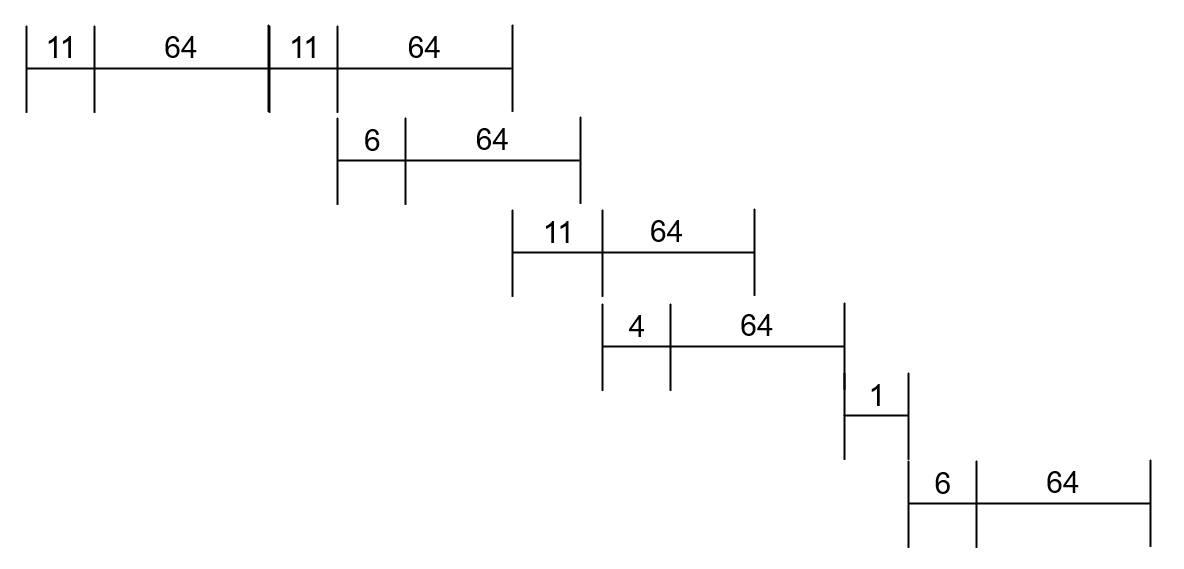
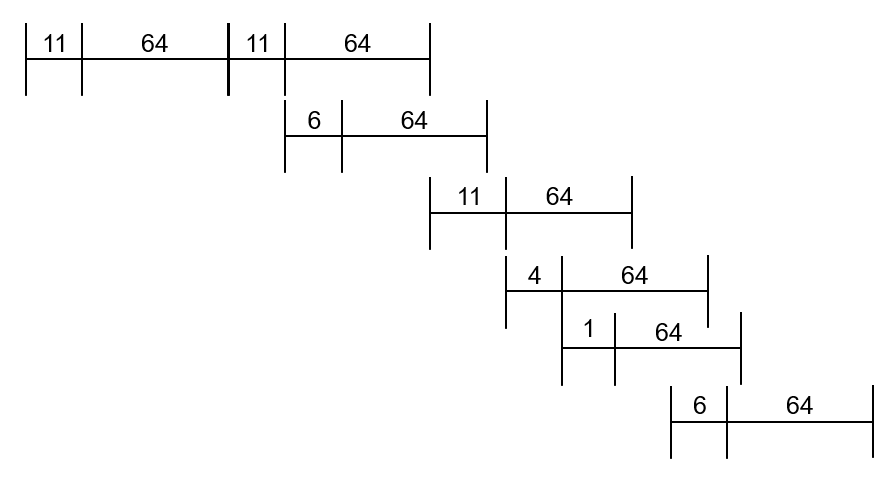
Fixed some problems, added 2

diff --git a/3/questions/3.tex b/3/questions/3.tex
@@ -18,38 +18,44 @@
     \begin{gather*}
         60 \times 100 + 5 = 6005
     \end{gather*}
-    \item کد را به صورت زیر مینویسیم:
+    \item کد را به صورت زیر مینویسیم: (فرض میکنیم که جمع آدرس با عدد ثابت در مرحلهی \lr{decode} انجام میشود.)
     \codesample{codes/3-b.s}
     برای محاسبه مشخص است که در ابتدا دو دستور \lr{SET} تنها دو کلاک را از ما میگیرند.
     بقیهی دستورات را نیز در زیر آوردام که چه قدر طول میکشند.
     همچنین فرض میکنیم تعداد بانکهای حافظه حداقل 11 است.
     \begin{gather*}
-        \underbrace{1 + 1}_{\text{\lr{SET}}} + \underbrace{11 + 63}_{\text{\lr{VLD, V0, B}}} + \underbrace{11 + 63}_{\text{\lr{VLD, V1, C}}} + \underbrace{6 + 63}_{\text{\lr{VMUL V0, V0, V1}}} + \underbrace{11 + 63}_{\text{\lr{VLD V1, D}}} + \underbrace{4 + 63}_{\text{\lr{VADD V0, V0, V1}}} + \underbrace{1}_{\text{\lr{VRSHFA}}} + \underbrace{11 + 63}_{\text{\lr{VST V0, A}}} \\
-        = 435
+        \underbrace{1 + 1}_{\text{\lr{SET}}} + \underbrace{11 + 63}_{\text{\lr{VLD, V0, B}}} + \underbrace{11 + 63}_{\text{\lr{VLD, V1, C}}} + \underbrace{6 + 63}_{\text{\lr{VMUL V0, V0, V1}}} + \underbrace{11 + 63}_{\text{\lr{VLD V1, D}}} + \underbrace{4 + 63}_{\text{\lr{VADD V0, V0, V1}}} + \underbrace{1 + 63}_{\text{\lr{VRSHFA}}} + \underbrace{11 + 63}_{\text{\lr{VST V0, A}}} \\
+        = 498
     \end{gather*}
     برای قسمت دوم کد نیز به صورت مشابه داریم:
     \begin{gather*}
-        \underbrace{1}_{\text{\lr{SET}}} + \underbrace{11 + 35}_{\text{\lr{VLD, V0, B}}} + \underbrace{11 + 35}_{\text{\lr{VLD, V1, C}}} + \underbrace{6 + 35}_{\text{\lr{VMUL V0, V0, V1}}} + \underbrace{11 + 35}_{\text{\lr{VLD V1, D}}} + \underbrace{4 + 35}_{\text{\lr{VADD V0, V0, V1}}} + \underbrace{1}_{\text{\lr{VRSHFA}}} + \underbrace{11 + 35}_{\text{\lr{VST V0, A}}} \\
-        = 255
+        \underbrace{1}_{\text{\lr{SET}}} + \underbrace{11 + 35}_{\text{\lr{VLD, V0, B}}} + \underbrace{11 + 35}_{\text{\lr{VLD, V1, C}}} + \underbrace{6 + 35}_{\text{\lr{VMUL V0, V0, V1}}} + \underbrace{11 + 35}_{\text{\lr{VLD V1, D}}} + \underbrace{4 + 35}_{\text{\lr{VADD V0, V0, V1}}} + \underbrace{1 + 35}_{\text{\lr{VRSHFA}}} + \underbrace{11 + 35}_{\text{\lr{VST V0, A}}} \\
+        = 290
     \end{gather*}
     پس در نهایت
-    $435 + 255 = 690$
+    $498 + 290 = 788$
     کلاک زمان میبرد.
-    \item در این حالت عملا زمان خواندن از مموری درجا میتوان داده را به \lr{ALU} داد. فرض کردم که برای شیفت دادن
-    داده باید به صورت کامل آماده در رجیستر قرار داشته باشد. سپس شکلی مانند اسلایدهای درس کشیدم:
+    \item در این حالت عملا زمان خواندن از مموری درجا میتوان داده را به \lr{ALU} داد.
+    سپس شکلی مانند اسلایدهای درس کشیدم:
     \begin{figure}[H]
         \centering
         \includegraphics[scale=0.45]{pics/3-c.png}
     \end{figure}
+    یک نکتهی مهم که وجود دارد این است که
+    \lr{store}
+    آخر باید بعد از زمانی اتفاق بیفتد که آخرین لود تمام شده باشد چرا که مموری ما امکان پشتیبانی از یک
+    \lr{load} و \lr{store}
+    موازی را ندارد. دقت کنید که این موضوع برای لود سوم نیز صادق است.
+    با کمی فکر کردن متوجه میشویم که این کار عملا مثل چهار لود پشت سر هم است!
     پس برای حساب کردن زمان اجرا داریم:
     \begin{gather*}
-        11 + 63 + 11 + 63 + 11 + 4 + 63 + 1 + 6 + 63 = 296
+        4 \times (11 + 63) = 296
     \end{gather*}
     به صورت مشابه برای قسمت دوم نیز داریم:
     \begin{gather*}
-        11 + 35 + 11 + 35 + 11 + 4 + 35 + 1 + 6 + 35 = 184
+        4 \times (11 + 35) = 184
     \end{gather*}
     پس در کل
-    $480$
+    $296 + 184 = 480$
     سیکل طول میکشد.
 \end{enumerate}

diff --git a/3/questions/4.tex b/3/questions/4.tex
@@ -16,6 +16,16 @@
         5 + \text{\lr{VLEN}} - 1 + 5 + \text{\lr{VLEN}} - 1 + 15 + \text{\lr{VLEN}} - 1 = 52\\
         \implies 3 \text{\lr{VLEN}} = 30 \implies \text{\lr{VLEN}} = 10
     \end{gather*}
+    حال اگر یک
+    \lr{array processor}
+    داشتیم دیگر نیازی به
+    \lr{pipeline}
+    کردن نبود و برای تمامی خانهها
+    \lr{PU}
+    جداگانه وجود داشت.
+    \begin{gather*}
+        5 + 5 + 15 = 25
+    \end{gather*}
     \item با توجه به بند سوم نمیتوان \lr{chain} انجام داد پس کافی است که معادلهی زیر را حل کنیم.
     در این معادله در ابتدا فرض میکنیم که تعداد المانهای بردار کمتر مساوی 16 است که در این حالت
     \begin{gather*}

diff --git a/3/questions/2.tex b/3/questions/2.tex
@@ -1,1 +1,15 @@
 \section{\lr{Convolution}}
+به صورت کلی
+\lr{convolution}
+یک مثال از
+\lr{stencil}
+است. برای درک بهتر، من
+\link{https://en.wikipedia.org/wiki/File:2D_Convolution_Animation.gif}{این گیف}
+را دیدم که
+\lr{convolution}
+را در فضای دو بعدی میچرخاند. همان طور که مشخص است برای این سوال نیز ما نیاز داریم همین کار را ولی صرفا در
+فضای سه بعدی انجام دهیم. یعنی یک مکعب با ابعاد مشخصی را بر روی مکعب دیگری حرکت دهیم. دقت کنید که باید مرکز
+\lr{kernel}
+حتما بر روی خانههای
+\lr{valid}
+ماتریس اصلی ما باشند.
